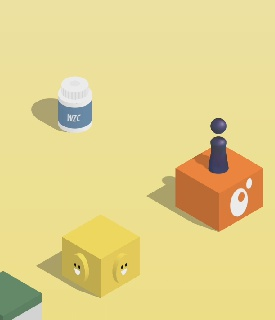
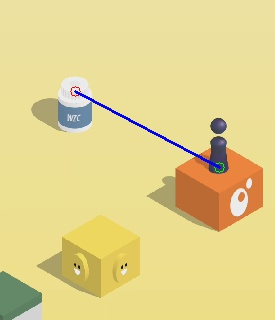
add jpg

Changed region(s): [[0.2327, 0.25, 0.8145, 0.5625]]

diff --git a/README.md b/README.md
@@ -1,18 +1,18 @@
 # 微信小游戏跳一跳
 
 ## 游戏原理
-![](./pictures/s1.png)
+![](./pictures/s1.png) 
 每次需要通过点击屏幕来控制小人跳到下一个砖块，点击时间的长短会控制小人跳的远近，跳到砖块正中心有额外的bonus, 有些特殊的砖块会有额外的bonus，像音乐盒，便利店这样的。
 
 ## 算法原理
->当前帧画面作为输入，提取小人和目的方块的位置，计算这两个位置之间的距离，然后转换成点击屏幕的时间，然后点击，循环。
+当前帧画面作为输入，提取小人和目的方块的位置，计算这两个位置之间的距离，然后转换成点击屏幕的时间，然后点击，循环。  
 ![](./pictures/s1line.jpg)
 
 ### 环境配置
 - Python2.7
 - [Adb 驱动](http://www.mz6.net/news/2016-03-07/4506.html)
 - [opencv3.2](https://opencv.org/)
-- 三星S7Edge
+- [安卓手机](https://item.jd.com/4157994.html)
 
 ### 操作说明
 插入手机，确保`Adb工具`已经连接上手机，即`ada devices`能找到设备id，运行`main.py`，然后看着它玩即可。
@@ -22,11 +22,16 @@
 - `main.py`： `jump()`和`get_screen()`封装了`Adb`的工具，完成截取手机屏幕和按指定时长点击屏幕2个动作。
 
 ##  Tips:
-1. 有几种情况目的地检测会失效
-	- 目的砖块过小  ![](./pictures/far.jpg)
+1. 由于各个手机分辨率的不同，`get_dist()`中一开始的`resize`*可能*要调整，裁剪的目的是截取画面中间信息，去掉上下多余的部分，最后要保证是一个320x275的图像，否则`dist2time()`中的系数也要调整。
+>    img = cv2.resize(img, (288, 512), fx=0,  fy =0, interpolation = cv2.INTER_CUBIC)
+>    img = img[100:450, 20:275]
+![](./pictures/img1.jpg)           ![](./pictures/img2.jpg)
+
+2. 有几种情况目的地检测会失效
+	- 目的砖块过小，在检测和控制两方面的误差下，可能会跳不上去。 ![](./pictures/far.jpg)
 	- 在特定的背景和砖块颜色下，会检测不到砖块，目的砖块坐标也会失效。
 	
-2. 在控制方面，参考了@[wangshub](https://github.com/wangshub/wechat_jump_game)的做法,用adb来控制。我和[冬强](https://github.com/cdq4817)最开始是打算用机械臂来完成，机械臂如下图，硬件方面的控制调试组装都是冬强完成的，后续等他回来我们可能会完成这个用硬件实现的跳一跳。
-![](./pictures/control.jpg)
+3. 在控制方面，参考了@[wangshub](https://github.com/wangshub/wechat_jump_game)的做法,用adb来控制。我和[冬强](https://github.com/cdq4817)最开始是打算用机械臂来完成，机械臂如下图，硬件方面的控制调试组装都是冬强完成的，后续等他回来我们可能会完成这个用硬件实现的跳一跳。
+![](./pictures/control.jpg)。 苹果手机的控制我不熟悉，可以参考[wangshub](https://github.com/wangshub/wechat_jump_game)的做法。
 
-3. 鉴于1，所以你能玩到多少分全凭运气，是从几十到几千的均匀分布。
+4. 鉴于*Tips2*，所以你能玩到多少分全凭运气，是从几十到几千的均匀分布。
